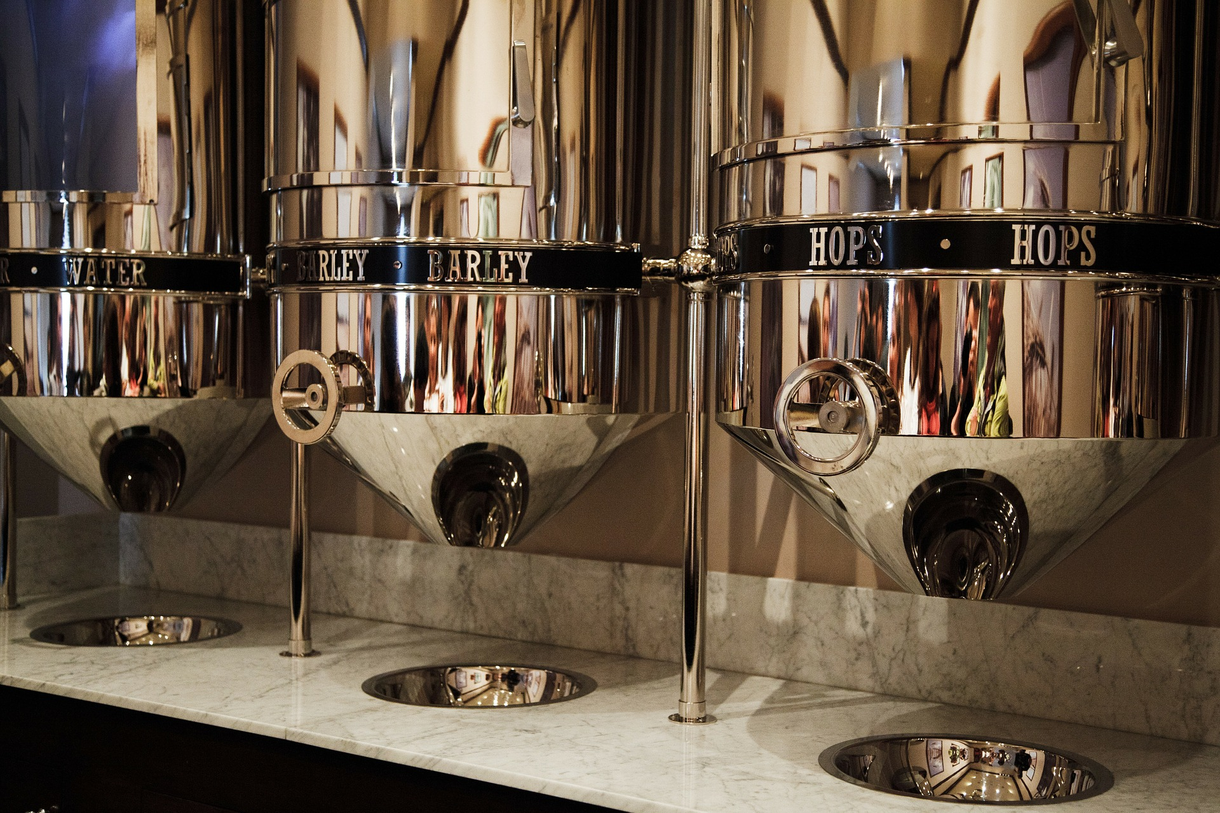
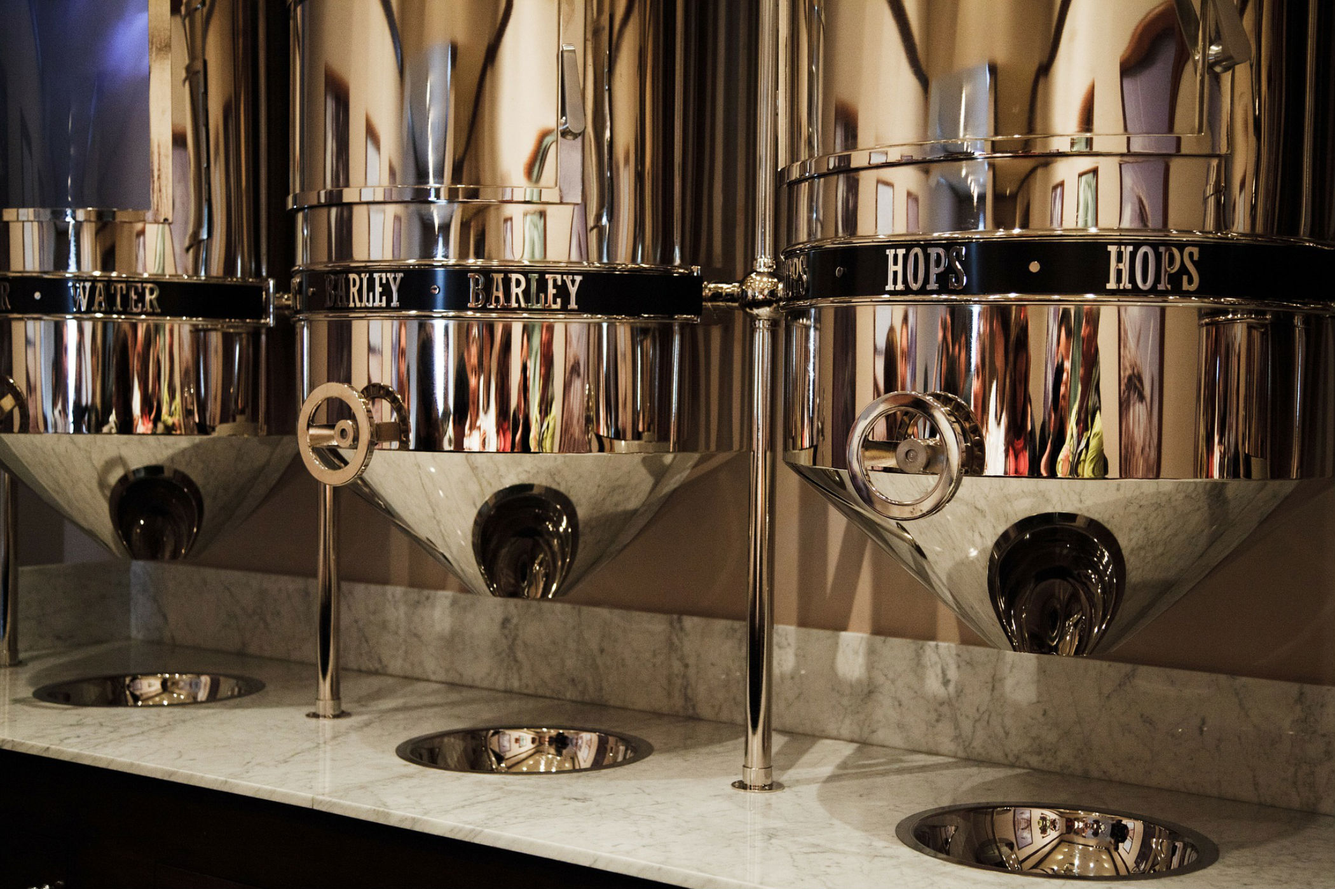
Maj des images bg

diff --git a/css/jumbo.css b/css/jumbo.css
@@ -5,6 +5,8 @@
     background-image: url('../img/une.jpg');
     background-repeat: no-repeat;
     background-attachment: fixed;
+    background-position: center center;
+    background-size: cover;
     height: 900px;
     width:100%;
     color: white;
@@ -106,6 +108,8 @@
     background-image: url('../img/full3.jpg');
     background-attachment: fixed;
     background-repeat: no-repeat;
+    background-position: center center;
+    background-size: cover;
     height: 800px;
     padding: 0;
 }
@@ -113,6 +117,8 @@
     background-image: url('../img/inter2.jpg');
     background-attachment: fixed;
     background-repeat: no-repeat;
+    background-position :center center;
+    background-size: cover;
     height: 800px;
     padding: 0;
 }
@@ -120,6 +126,8 @@
     background-image: url('../img/inter3.JPG');
     background-attachment: fixed;
     background-repeat: no-repeat;
+    background-position: center center;
+    background-size: cover;
     height: 800px;
     padding: 0;
 }
